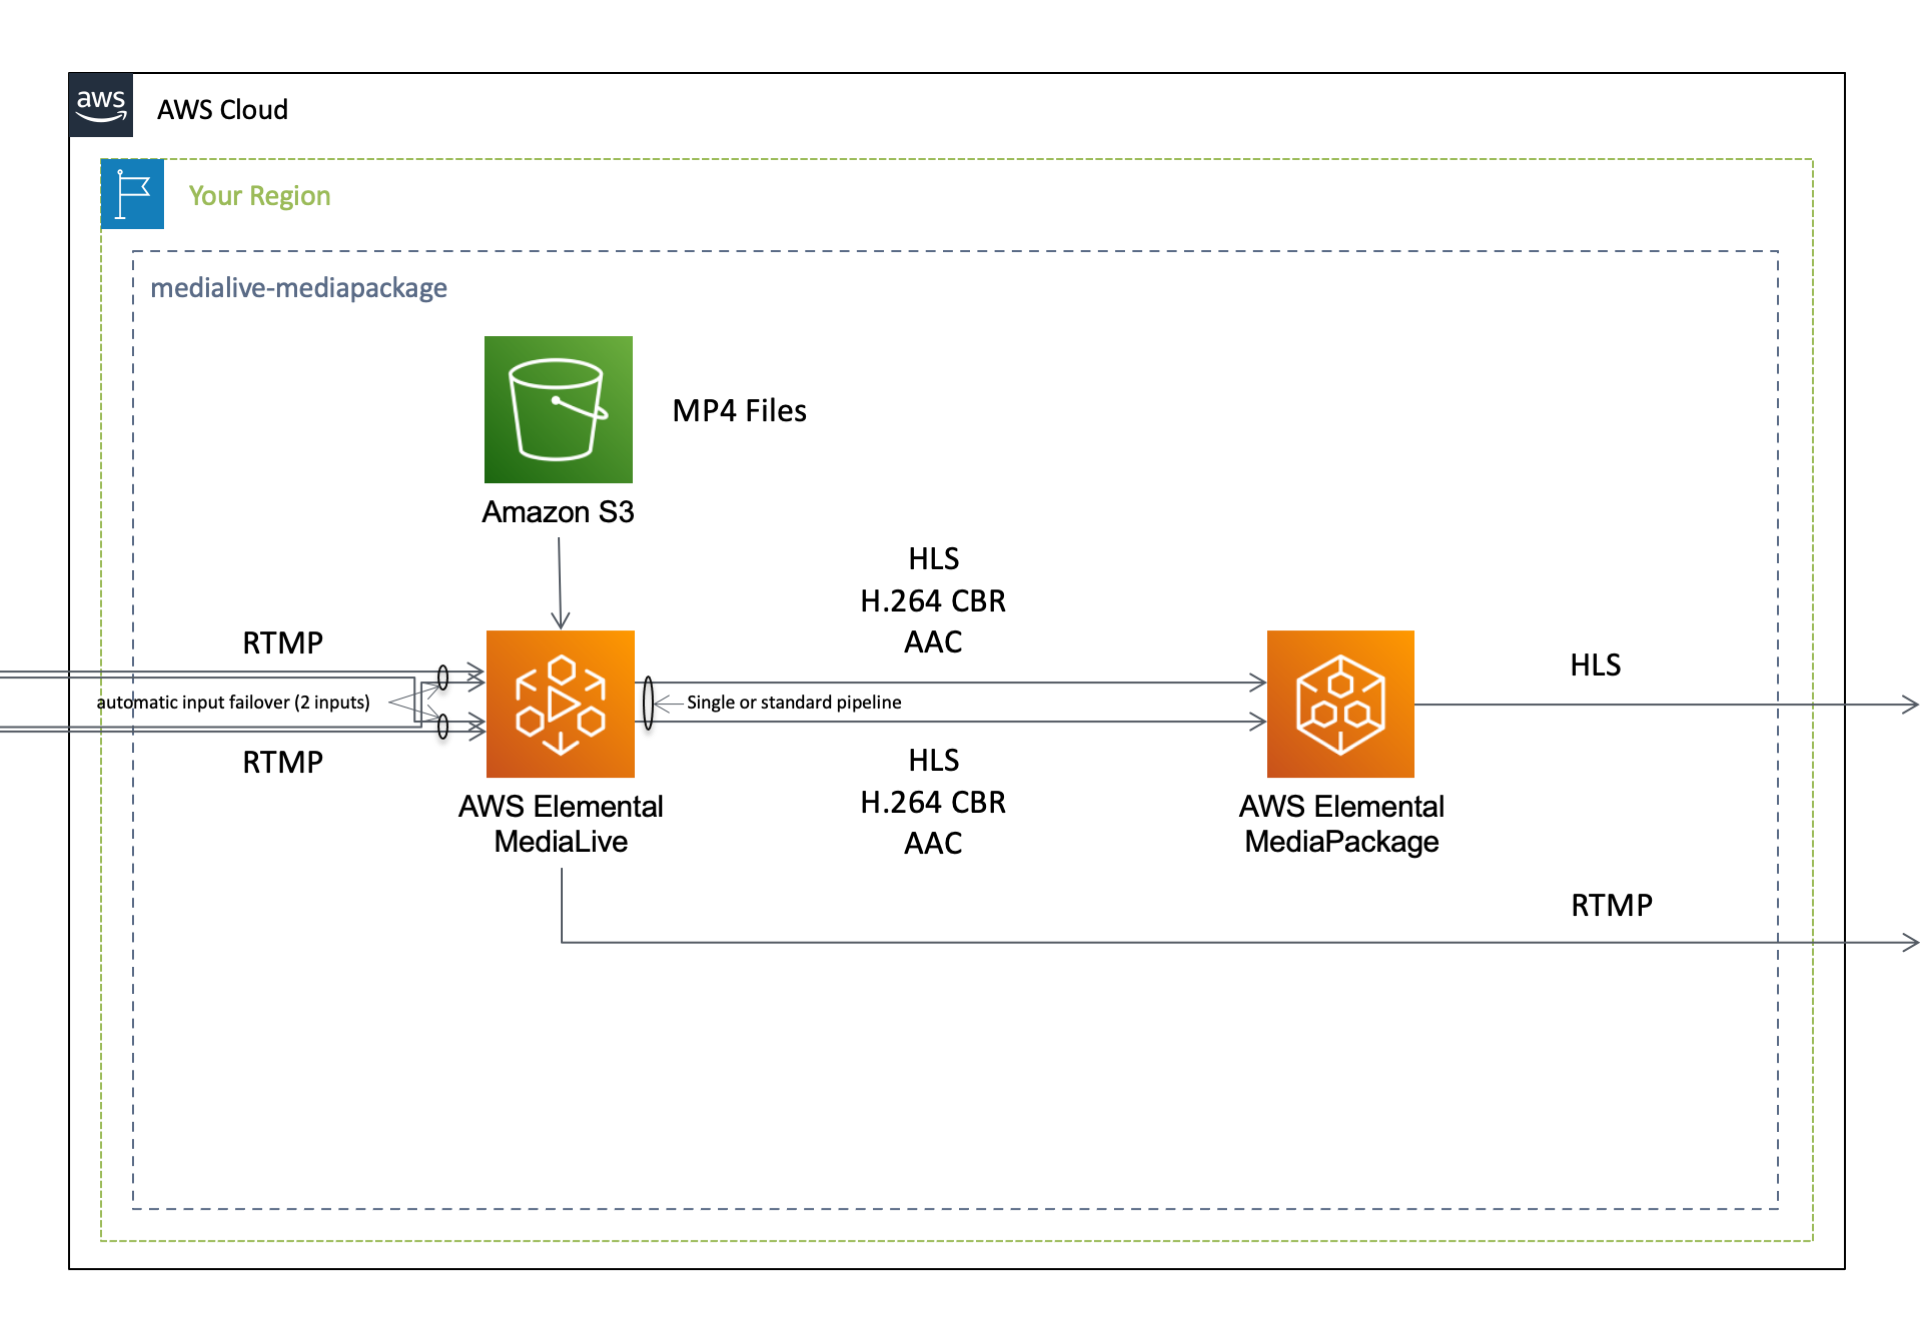
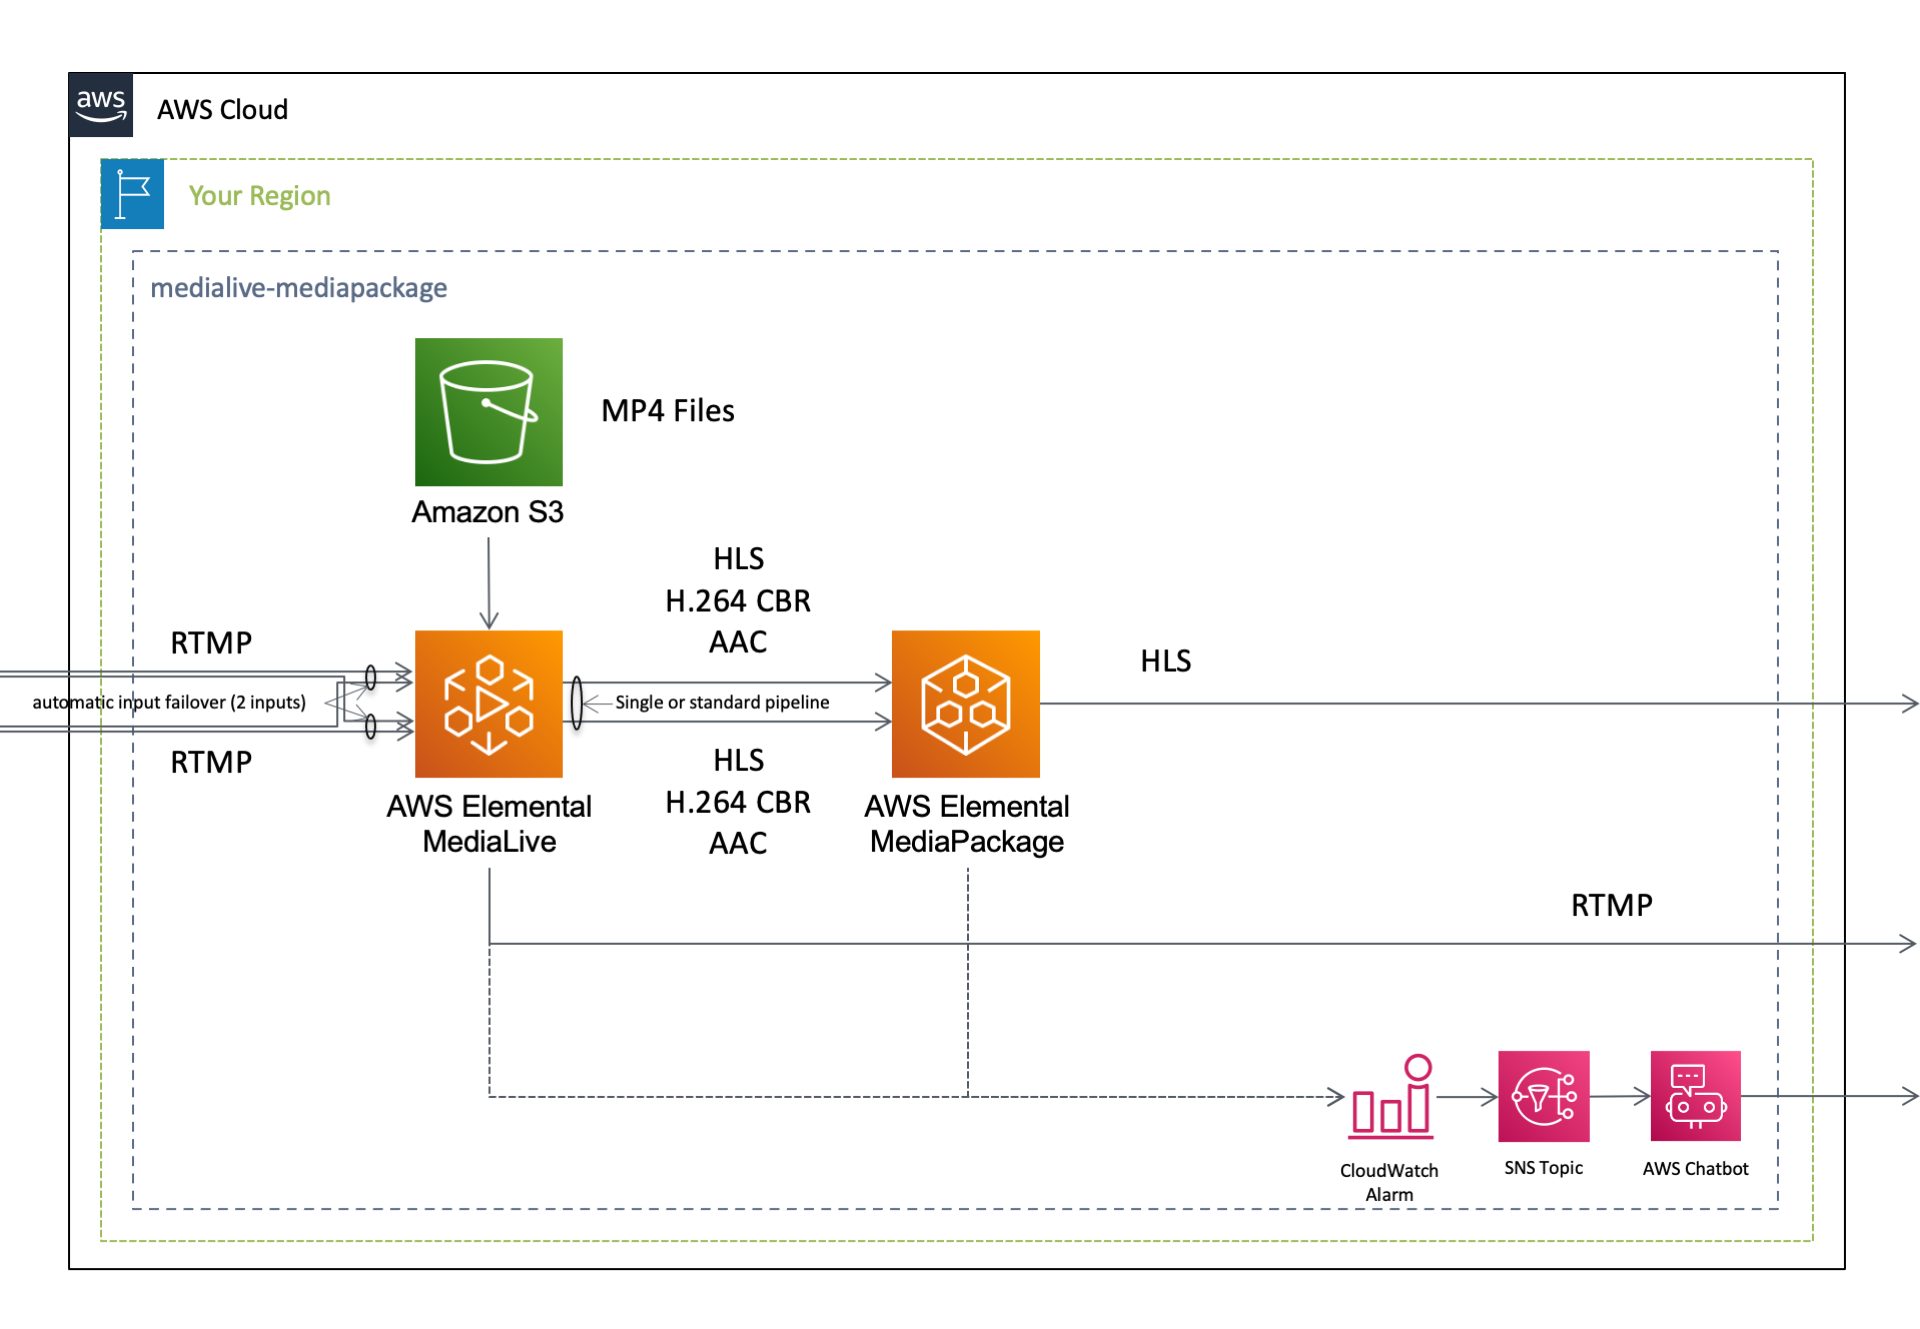
Update 'media' module.

diff --git a/media/README_JP.md b/media/README_JP.md
@@ -11,13 +11,23 @@
 └── README.md                   <-- 導入ガイド（英語版）
 ```
 
+## 準備
+
+**このテンプレートを実行する前に、AWS Chatbotコンソール上で初回認証フロー行う必要があります。** これには、SlackワークスペースIDが必要です。詳細は、``AWS Chatbot ユーザガイド``内の[Setting Up AWS Chatbot with Slack](https://docs.aws.amazon.com/ja_jp/chatbot/latest/adminguide/setting-up.html#Setup_intro)のステップ1から4を参照してください。
+
+![](images/setup_chatbot_1.png)
+
+プライベートチャンネルに投稿する場合には、 @aws を当該チャンネルに追加してください。
+
+> /invite @aws
+
 ## クイックスタート
 
 以下のボタンをクリックして **デプロイを開始** してください。
 
 | テンプレート名 | リージョン | 実行 |
 | --- | --- | --- |
-| Live streaming using IVS | us-east-1 | [![cloudformation-launch-stack](images/cloudformation-launch-stack.png)](https://console.aws.amazon.com/cloudformation/home?region=us-east-1#/stacks/quickcreate?stackName=IVS-WebsiteHosting&templateURL=https://eijikominami.s3-ap-northeast-1.amazonaws.com/aws-cloudformation-samples/media/ivs-s3-cloudfront.yaml) |
+| Live streaming using IVS | ap-northeast-1 | [![cloudformation-launch-stack](images/cloudformation-launch-stack.png)](https://console.aws.amazon.com/cloudformation/home?region=ap-northeast-1#/stacks/quickcreate?stackName=IVS-WebsiteHosting&templateURL=https://eijikominami.s3-ap-northeast-1.amazonaws.com/aws-cloudformation-samples/media/ivs-s3-cloudfront.yaml) |
 | Live streaming using MediaPackage | ap-northeast-1 | [![cloudformation-launch-stack](images/cloudformation-launch-stack.png)](https://console.aws.amazon.com/cloudformation/home?region=ap-northeast-1#/stacks/quickcreate?stackName=MediaLiveToMediaPackage&templateURL=https://eijikominami.s3-ap-northeast-1.amazonaws.com/aws-cloudformation-samples/media/medialive-mediapackage.yaml) |
 | Live streaming using MediaStore | ap-northeast-1 | [![cloudformation-launch-stack](images/cloudformation-launch-stack.png)](https://console.aws.amazon.com/cloudformation/home?region=ap-northeast-1#/stacks/quickcreate?stackName=MediaLiveToMediaStore&templateURL=https://eijikominami.s3-ap-northeast-1.amazonaws.com/aws-cloudformation-samples/media/medialive-mediastore.yaml) |
 | Live streaming using S3 | ap-northeast-1 | [![cloudformation-launch-stack](images/cloudformation-launch-stack.png)](https://console.aws.amazon.com/cloudformation/home?region=ap-northeast-1#/stacks/quickcreate?stackName=MediaLiveToS3&templateURL=https://eijikominami.s3-ap-northeast-1.amazonaws.com/aws-cloudformation-samples/media/medialive-s3.yaml) |
@@ -36,6 +46,8 @@ aws cloudformation deploy --template-file medialive-S3.yaml --stack-name MediaLi
 ## アーキテクチャ
 
 このテンプレートが作成するAWSリソースのアーキテクチャ図は、以下の通りです。
+
+![](images/architecture-ivs-s3-cloudfront.png)
 
 ![](images/architecture-medialive-mediapackage.png)
 

diff --git a/media/README.md b/media/README.md
@@ -11,13 +11,23 @@ This is a sample template about ``AWS Media Services``.
 └── README.md                   <-- This instructions file
 ```
 
+## Preparation
+
+**This template requires some setup to be done in the AWS Chatbot console.** To provide the required Slack workspace ID, you must perform the initial authorization flow with Slack in the AWS Chatbot console, then copy and paste the workspace ID from the console. For more details, see steps 1-4 in [Setting Up AWS Chatbot with Slack](https://docs.aws.amazon.com/chatbot/latest/adminguide/setting-up.html#Setup_intro) in the ``AWS Chatbot User Guide``. 
+
+![](images/setup_chatbot_1.png)
+
+@aws must be invited to Slack private channels.
+
+> /invite @aws
+
 ## QuickStart
 
 Click the following button to deploy the project.
 
 | Template Name | AWS Region | Launch |
 | --- | --- | --- |
-| Live streaming using IVS | us-east-1 | [![cloudformation-launch-stack](images/cloudformation-launch-stack.png)](https://console.aws.amazon.com/cloudformation/home?region=us-east-1#/stacks/quickcreate?stackName=IVS-WebsiteHosting&templateURL=https://eijikominami.s3-ap-northeast-1.amazonaws.com/aws-cloudformation-samples/media/ivs-s3-cloudfront.yaml) |
+| Live streaming using IVS | ap-northeast-1 | [![cloudformation-launch-stack](images/cloudformation-launch-stack.png)](https://console.aws.amazon.com/cloudformation/home?region=ap-northeast-1#/stacks/quickcreate?stackName=IVS-WebsiteHosting&templateURL=https://eijikominami.s3-ap-northeast-1.amazonaws.com/aws-cloudformation-samples/media/ivs-s3-cloudfront.yaml) |
 | Live streaming using MediaPackage | ap-northeast-1 | [![cloudformation-launch-stack](images/cloudformation-launch-stack.png)](https://console.aws.amazon.com/cloudformation/home?region=ap-northeast-1#/stacks/quickcreate?stackName=MediaLiveToMediaPackage&templateURL=https://eijikominami.s3-ap-northeast-1.amazonaws.com/aws-cloudformation-samples/media/medialive-mediapackage.yaml) |
 | Live streaming using MediaStore | ap-northeast-1 | [![cloudformation-launch-stack](images/cloudformation-launch-stack.png)](https://console.aws.amazon.com/cloudformation/home?region=ap-northeast-1#/stacks/quickcreate?stackName=MediaLiveToMediaStore&templateURL=https://eijikominami.s3-ap-northeast-1.amazonaws.com/aws-cloudformation-samples/media/medialive-mediastore.yaml) |
 | Live streaming using S3 | ap-northeast-1 | [![cloudformation-launch-stack](images/cloudformation-launch-stack.png)](https://console.aws.amazon.com/cloudformation/home?region=ap-northeast-1#/stacks/quickcreate?stackName=MediaLiveToMediaS3&templateURL=https://eijikominami.s3-ap-northeast-1.amazonaws.com/aws-cloudformation-samples/media/medialive-s3.yaml) |
@@ -36,6 +46,8 @@ aws cloudformation deploy --template-file medialive-S3.yaml --stack-name MediaLi
 ## Architecture
 
 The following sections describe the individual components of the architecture.
+
+![](images/architecture-ivs-s3-cloudfront.png)
 
 ![](images/architecture-medialive-mediapackage.png)
 
